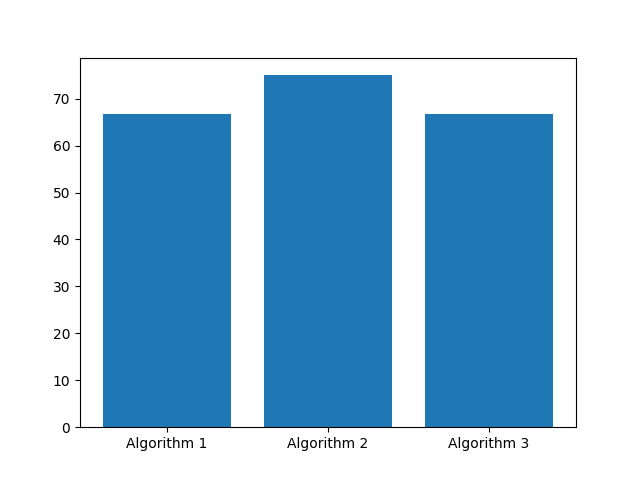
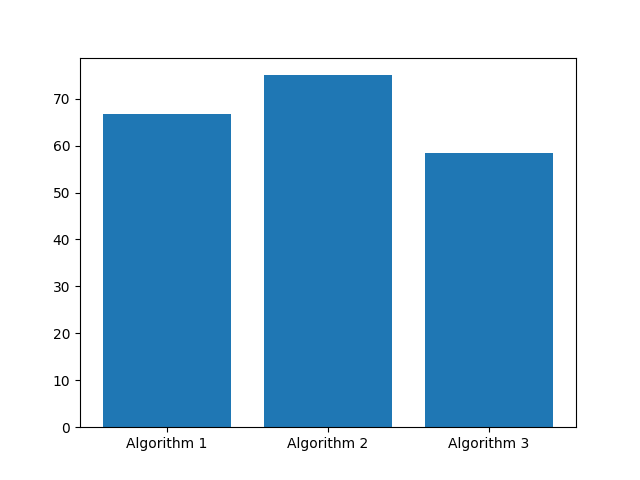
evaluation

Changed region(s): [[0.6562, 0.2188, 0.875, 0.3438]]

diff --git a/Evaluation/code.py b/Evaluation/code.py
@@ -27,7 +27,7 @@ accuracy1 = accuracy(actual, predicted1)
 predicted2 = [1, 1, 0, 1, 0, 0, 2, 2, 1, 3, 3, 3]
 accuracy2 = accuracy(actual, predicted2)
 
-predicted3 = [1, 1, 0, 1, 0, 0, 2, 2, 1, 3, 3, 2]
+predicted3 = [1, 1, 0, 1, 0, 0, 2, 2, 1, 3, 2, 2]
 accuracy3 = accuracy(actual, predicted3)
 
 print('Accuracy1: %.2f%%' % accuracy1)
